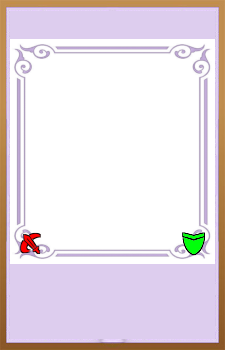
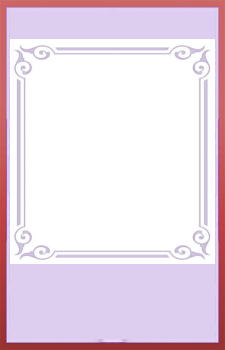
Melhoria no comando de prune

Changed region(s): [[0.0, 0.0, 1.0, 1.0], [0.0622, 0.1143, 0.9333, 0.7429]]

diff --git a/src/main/java/com/kuuhaku/handlers/games/tabletop/games/shoukan/Champion.java b/src/main/java/com/kuuhaku/handlers/games/tabletop/games/shoukan/Champion.java
@@ -128,46 +128,32 @@ public class Champion implements Drawable, Cloneable {
 		Graphics2D g2d = bi.createGraphics();
 		g2d.setRenderingHint(RenderingHints.KEY_TEXT_ANTIALIASING, RenderingHints.VALUE_TEXT_ANTIALIAS_ON);
 
+		Champion c = Helper.getOr(fakeCard, this);
 		if (flipped) {
 			g2d.drawImage(acc.getFrame().getBack(acc), 0, 0, null);
 		} else {
-			if (fakeCard != null) {
-				g2d.drawImage(fakeCard.getCard().drawCardNoBorder(acc), 0, 0, null);
-			} else {
-				g2d.drawImage(card.drawCardNoBorder(acc), 0, 0, null);
-			}
+			g2d.drawImage(c.getCard().drawCardNoBorder(acc), 0, 0, null);
 			g2d.drawImage(acc.getFrame().getFront(), 0, 0, null);
 			g2d.setFont(Fonts.DOREKING.deriveFont(Font.PLAIN, 20));
 
-			if (fakeCard != null) {
-				Profile.printCenteredString(StringUtils.abbreviate(fakeCard.getCard().getName(), 15), 181, 38, 32, g2d);
-				g2d.drawImage(fakeCard.getRace().getIcon(), 11, 12, 23, 23, null);
-			} else {
-				Profile.printCenteredString(StringUtils.abbreviate(card.getName(), 15), 181, 38, 32, g2d);
-				g2d.drawImage(getRace().getIcon(), 11, 12, 23, 23, null);
-			}
+			Profile.printCenteredString(StringUtils.abbreviate(c.getCard().getName(), 15), 181, 38, 32, g2d);
+			g2d.drawImage(c.getRace().getIcon(), 11, 12, 23, 23, null);
 
 			boolean drawnMana = false;
-			if (getMana() > 0 || (fakeCard != null && fakeCard.getMana() > 0)) {
+			if (c.getMana() > 0) {
 				g2d.drawImage(Helper.getResourceAsImage(this.getClass(), "shoukan/mana.png"), 184, 47, null);
 
 				g2d.setColor(new Color(0, 165, 255));
-				if (fakeCard != null)
-					Profile.drawOutlinedText(String.valueOf(fakeCard.getMana()), 178 - g2d.getFontMetrics().stringWidth(String.valueOf(fakeCard.getMana())), 67, g2d);
-				else
-					Profile.drawOutlinedText(String.valueOf(getMana()), 178 - g2d.getFontMetrics().stringWidth(String.valueOf(getMana())), 67, g2d);
+				Profile.drawOutlinedText(String.valueOf(c.getMana()), 178 - g2d.getFontMetrics().stringWidth(String.valueOf(c.getMana())), 67, g2d);
 
 				drawnMana = true;
 			}
 
-			if (getBlood() > 0 || (fakeCard != null && fakeCard.getBlood() > 0)) {
+			if (c.getBlood() > 0) {
 				g2d.drawImage(Helper.getResourceAsImage(this.getClass(), "shoukan/blood.png"), 184, 47 + (drawnMana ? 23 : 0), null);
 
 				g2d.setColor(new Color(255, 51, 0));
-				if (fakeCard != null)
-					Profile.drawOutlinedText(String.valueOf(fakeCard.getBlood()), 178 - g2d.getFontMetrics().stringWidth(String.valueOf(fakeCard.getBlood())), 67 + (drawnMana ? 22 : 0), g2d);
-				else
-					Profile.drawOutlinedText(String.valueOf(getBlood()), 178 - g2d.getFontMetrics().stringWidth(String.valueOf(getBlood())), 67 + (drawnMana ? 22 : 0), g2d);
+				Profile.drawOutlinedText(String.valueOf(c.getBlood()), 178 - g2d.getFontMetrics().stringWidth(String.valueOf(c.getBlood())), 67 + (drawnMana ? 22 : 0), g2d);
 			}
 
 			String data = bonus.getSpecialData().getString("write");
@@ -177,15 +163,14 @@ public class Champion implements Drawable, Cloneable {
 				Profile.drawOutlinedText(data, 20, 66, g2d);
 			}
 
-			Champion c = Helper.getOr(fakeCard, this);
 			Drawable.drawAttributes(bi, c.getFinAtk(), c.getFinDef());
 
 			g2d.setFont(new Font("Arial", Font.BOLD, 11));
 			g2d.setColor(Color.black);
-			g2d.drawString("[" + getRace().toString().toUpperCase(Locale.ROOT) + (effect == null ? "" : "/EFEITO") + "]", 9, 277);
+			g2d.drawString("[" + c.getRace().toString().toUpperCase(Locale.ROOT) + (c.hasEffect() ? "/EFEITO" : "") + "]", 9, 277);
 
 			g2d.setFont(Fonts.HAMMERSMITH_ONE.deriveFont(Font.PLAIN, 11));
-			Profile.drawStringMultiLineNO(g2d, fakeCard != null ? fakeCard.getDescription() : Helper.getOr(altDescription, description), 205, 9, 293);
+			Profile.drawStringMultiLineNO(g2d, c.getDescription(), 205, 9, 293);
 
 			if (isStasis() || isStunned() || isSleeping()) {
 				available = false;
@@ -605,7 +590,7 @@ public class Champion implements Drawable, Cloneable {
 	}
 
 	public String getDescription() {
-		return sealed ? "Carta selada." : description;
+		return sealed ? "Carta selada." : Helper.getOr(altDescription, description);
 	}
 
 	public void setDescription(String description) {

diff --git a/src/main/java/com/kuuhaku/handlers/games/tabletop/games/shoukan/Equipment.java b/src/main/java/com/kuuhaku/handlers/games/tabletop/games/shoukan/Equipment.java
@@ -123,7 +123,7 @@ public class Equipment implements Drawable, Cloneable {
 				g2d.setFont(Fonts.HAMMERSMITH_ONE.deriveFont(Font.PLAIN, 11));
 				Profile.drawStringMultiLineNO(g2d, description, 205, 9, 277);
 			} else {
-				g2d.drawImage(acc.getFrame().getFrontEquipment(), 0, 0, null);
+				g2d.drawImage(acc.getFrame().getFront(), 0, 0, null);
 				g2d.setFont(Fonts.DOREKING.deriveFont(Font.PLAIN, 20));
 
 				Profile.printCenteredString(StringUtils.abbreviate(card.getName(), 18), 205, 10, 32, g2d);

diff --git a/src/main/java/com/kuuhaku/handlers/games/tabletop/games/shoukan/enums/FrameColor.java b/src/main/java/com/kuuhaku/handlers/games/tabletop/games/shoukan/enums/FrameColor.java
@@ -76,10 +76,6 @@ public enum FrameColor {
 		return canvas;
 	}
 
-	public BufferedImage getFrontEquipment() {
-		return Helper.getResourceAsImage(this.getClass(), "shoukan/frames/card_front_equip_" + name().toLowerCase(Locale.ROOT) + ".png");
-	}
-
 	public BufferedImage getFrontArena() {
 		return Helper.getResourceAsImage(this.getClass(), "shoukan/frames/card_front_arena_" + name().toLowerCase(Locale.ROOT) + ".png");
 	}
